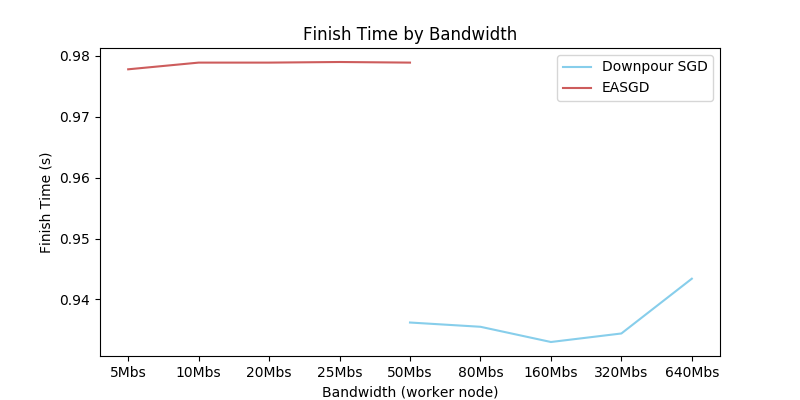
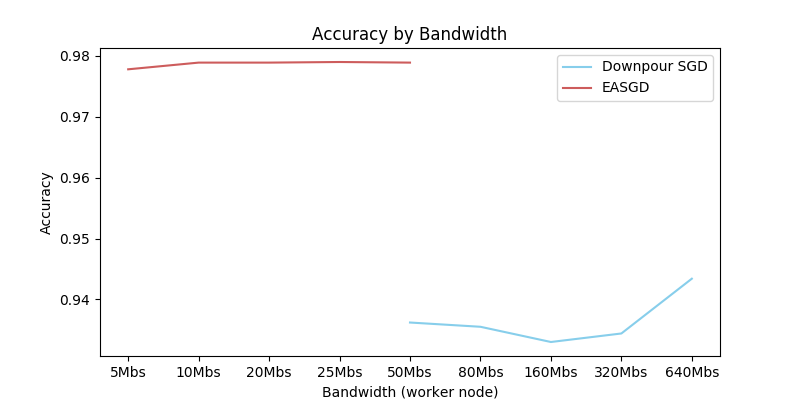
update

Changed region(s): [[0.375, 0.06, 0.6562, 0.12], [0.0312, 0.39, 0.0625, 0.63]]

diff --git a/pics/downpour_easgd_bandwidth_accuracy/draw.py b/pics/downpour_easgd_bandwidth_accuracy/draw.py
@@ -12,8 +12,8 @@ plt.plot(easgd_x, easgd_y, color='IndianRed', label='EASGD')
 
 plt.xlabel("Bandwidth (worker node)")
 plt.xticks([1, 2, 3, 4, 5, 6, 7, 8, 9], ["5Mbs", "10Mbs", "20Mbs", "25Mbs", "50Mbs", "80Mbs", "160Mbs", "320Mbs", "640Mbs"])
-plt.ylabel("Finish Time (s)")
-plt.title("Finish Time by Bandwidth")
+plt.ylabel("Accuracy")
+plt.title("Accuracy by Bandwidth")
 plt.legend()
 plt.savefig("downpur_easgd_accuracy.png")
 plt.show()
